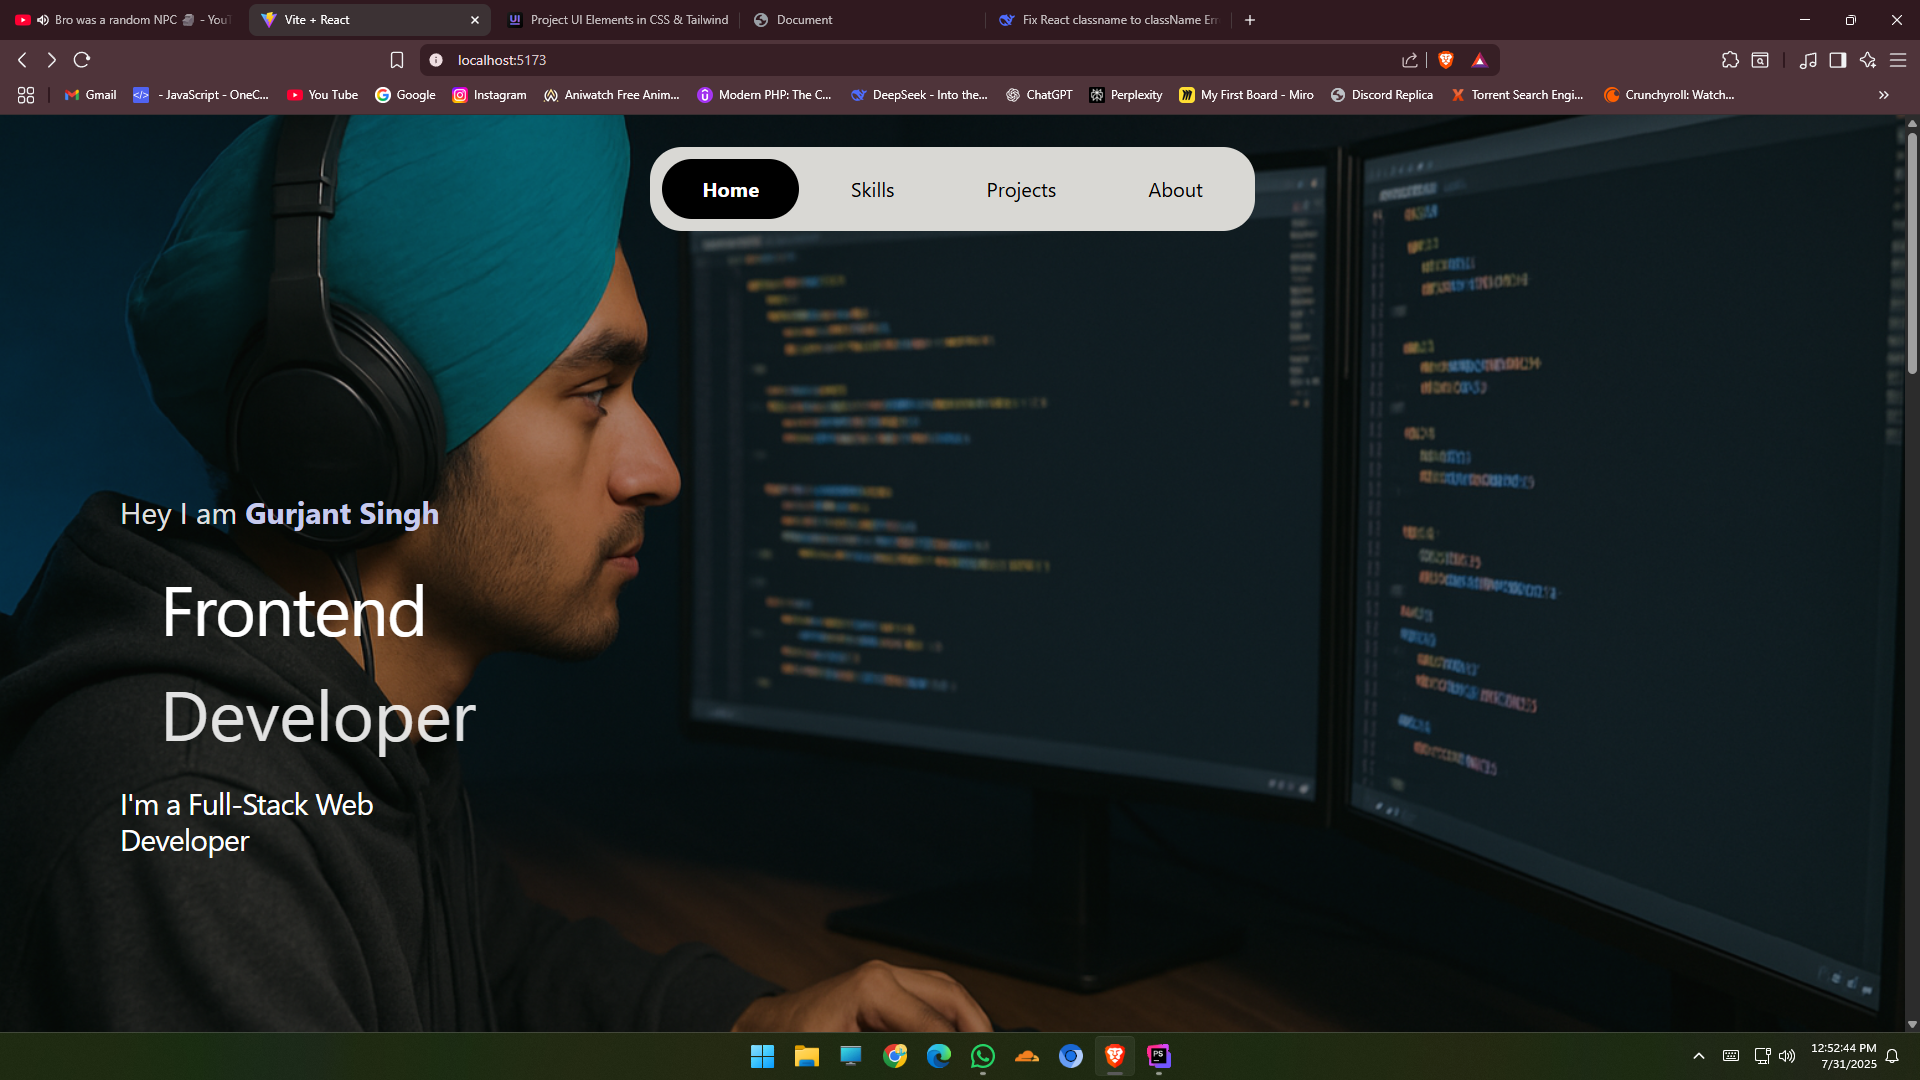
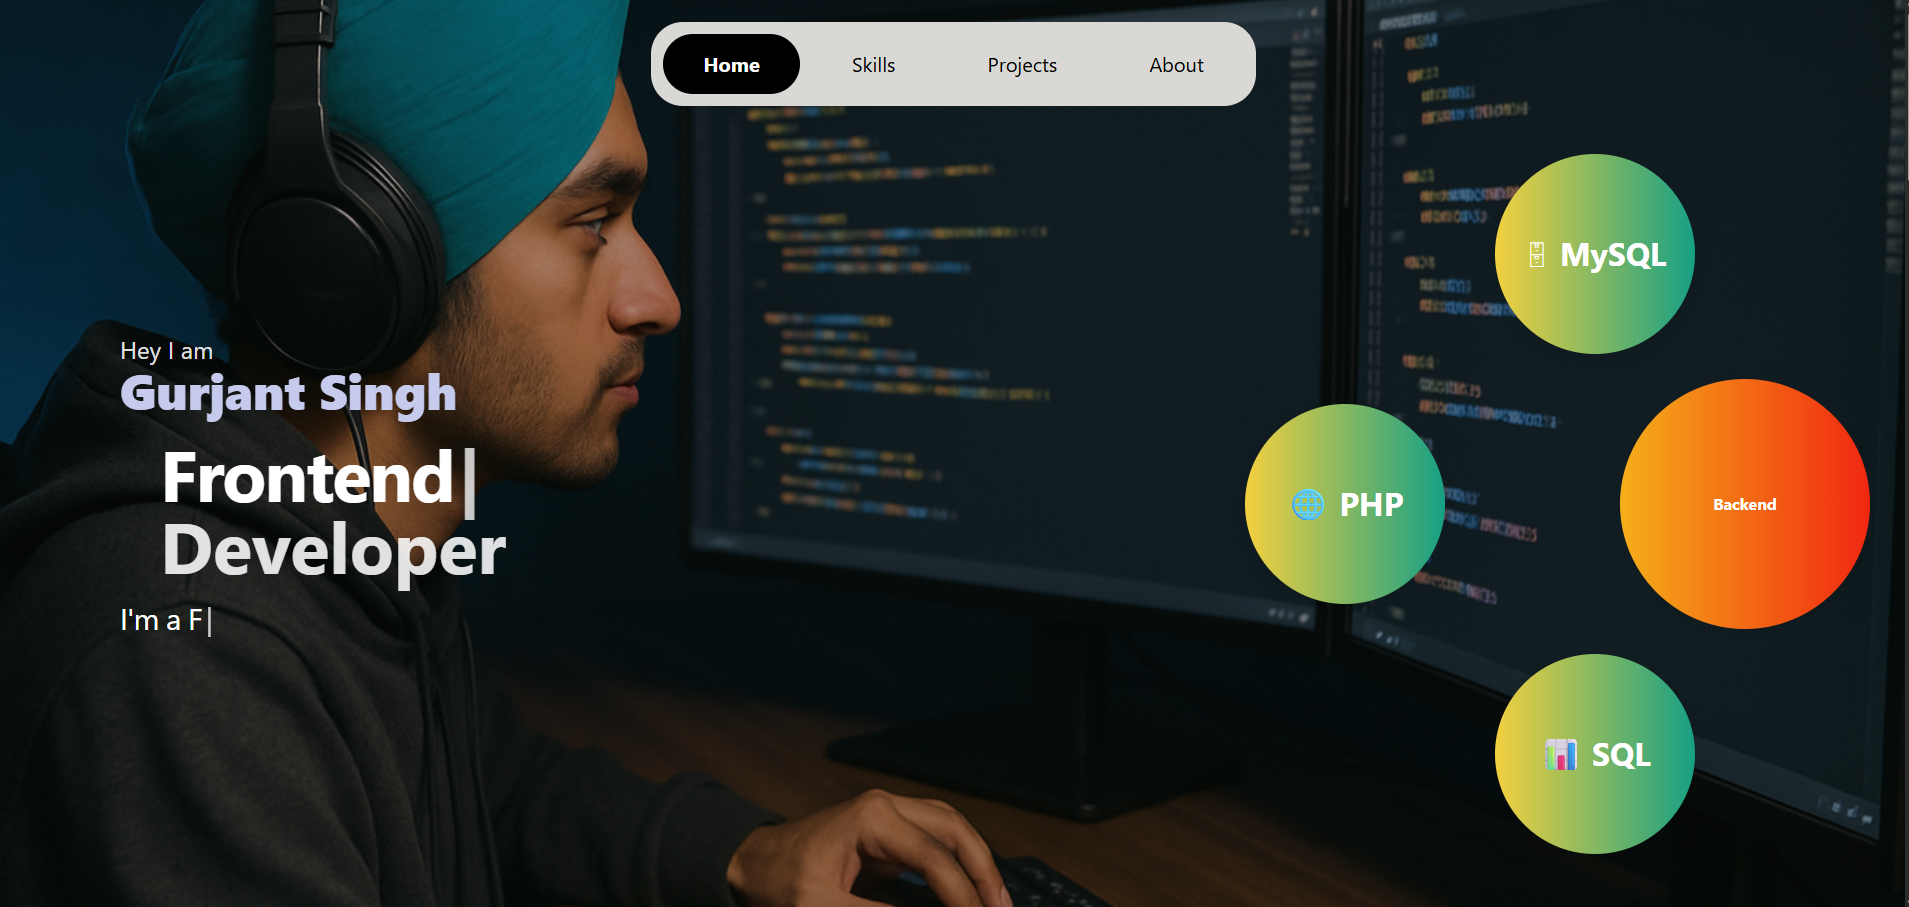
Add external project link to ProjectDetail page
Introduced a 'See Project' button that links to the project's URL if available and valid. Also updated Project1.png image.

diff --git a/src/Pages/Project Detail/ProjectDetail.jsx b/src/Pages/Project Detail/ProjectDetail.jsx
@@ -80,7 +80,19 @@ export function ProjectDetail() {
                         {
                             projectDetails?.length>0?projectDetails[0].name:""
                         }
+
                     </motion.div>
+                    <div className={"w-full flex justify-end"}>
+                        {projectDetails?.length>0?
+                            projectDetails[0].projectUrl!==null && projectDetails[0].projectUrl!==undefined && projectDetails[0].projectUrl !== "example.com" ?
+                                <a href={projectDetails[0].projectUrl}
+                                className={"ml-20 text-xl bg-gray-600 p-3 place-self-end rounded-lg hover:scale-[1.05] duration-200 hover:bg-gray-900 hover:text-shadow-white"}
+                                   target="_blank"
+
+                                >See Project
+                                </a>
+                                :"":""}
+                    </div>
                     {
                         sections.length>0?sections.map((e,i)=>{
                             return <ProjectDescription title={e[0]} desc={e[1]} key={i} img={e[2]}/>
